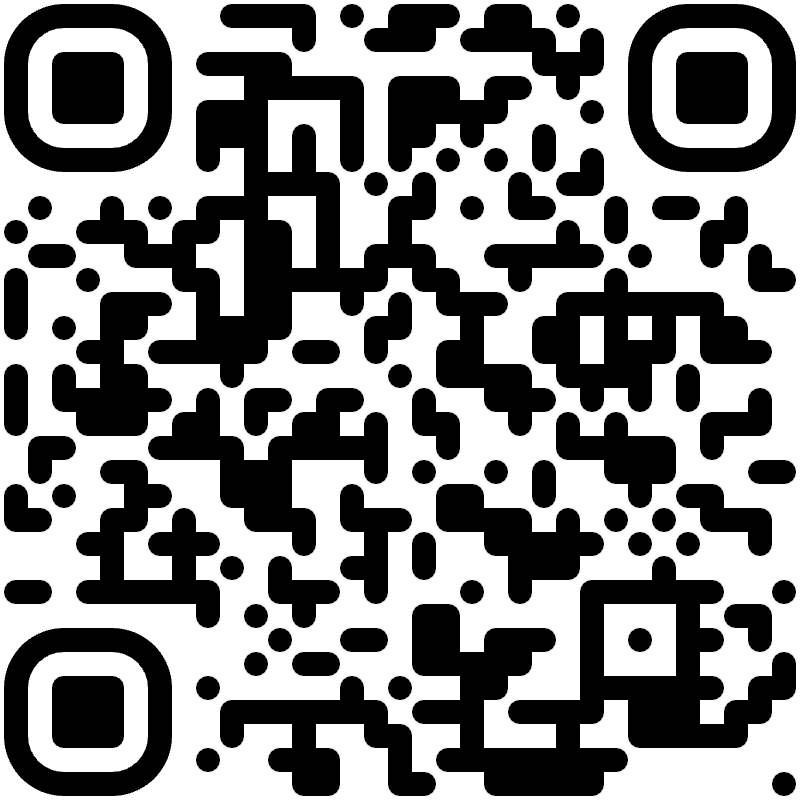
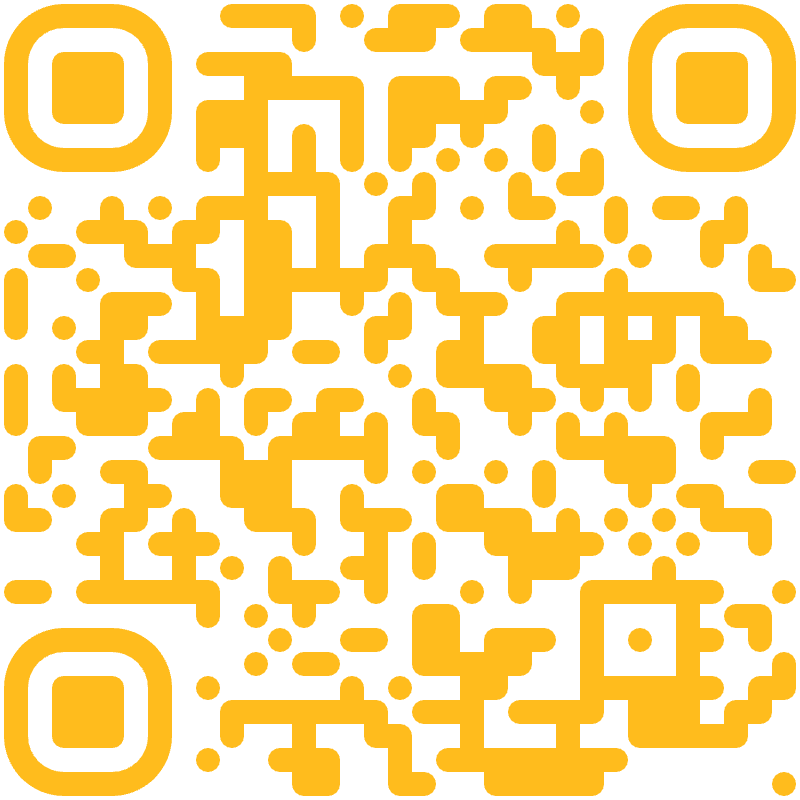
qrs

diff --git a/frontend/src/lib/qr.js b/frontend/src/lib/qr.js
@@ -14,7 +14,7 @@ const options = {
     },
     "dotsOptions": {
         "type": "rounded",
-        "color": "#000000", //"#7e3cda",
+        "color": "#FFBC1D", //"#7e3cda",
         "roundSize": true
     },
     "backgroundOptions": {
@@ -36,7 +36,7 @@ const options = {
     },
     "cornersSquareOptions": {
         "type": "extra-rounded",
-        "color": "#000000", //"#9d89fc"
+        "color": "#FFBC1D", //"#9d89fc"
     },
     "cornersSquareOptionsHelper": {
         "colorType": {
@@ -53,7 +53,7 @@ const options = {
     },
     "cornersDotOptions": {
         "type": "",
-        "color": "#000000", //"#7e3cda"
+        "color": "#FFBC1D",
     },
     "cornersDotOptionsHelper": {
         "colorType": {

diff --git a/frontend/scripts/createQrs.js b/frontend/scripts/createQrs.js
@@ -34,6 +34,12 @@ async function generateQRCodes() {
         return;
     }
 
+    const mainOutputPath = path.join(outputDir, 'main.png');
+    await createQRCode(CLIENT_DOMAIN, mainOutputPath);
+    console.log(`Generated QR code for Main Domain:`);
+    console.log(` -> URL: ${CLIENT_DOMAIN}`);
+    console.log(` -> Saved to: ${mainOutputPath}\n`);
+
     for (const cp of checkpoints) {
       const clientPath = `${CLIENT_DOMAIN}/verify/${cp.id}`;
       const outputPath = path.join(outputDir, `${cp.id}.png`);
